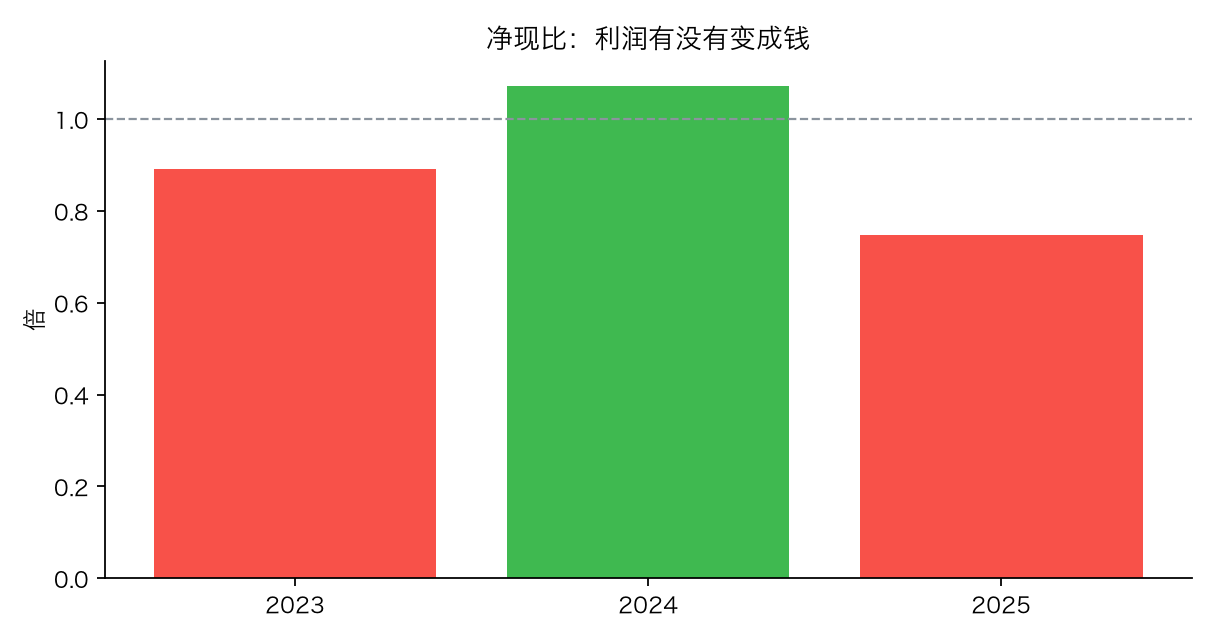
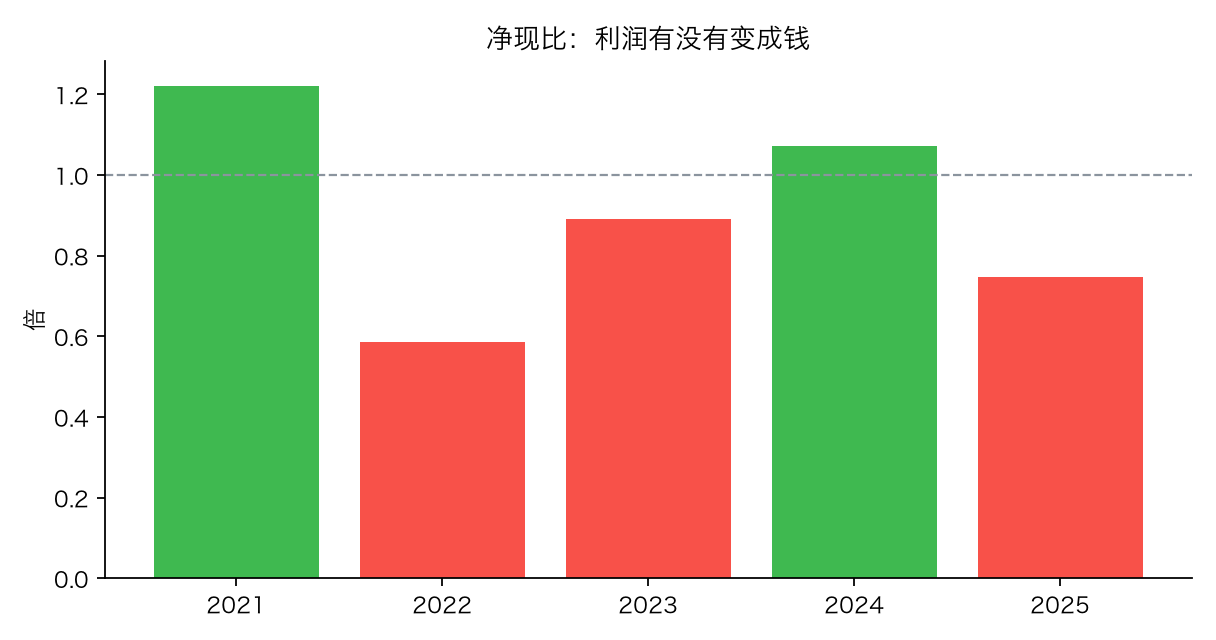
report: 600519.SH 贵州茅台 · 年报深度解读 · 2026-11-28

diff --git a/reports/600519.SH/2026-11-28/company-analysis.md b/reports/600519.SH/2026-11-28/company-analysis.md
@@ -29,19 +29,19 @@ finding_count: 2
 
 **下一年只看三个数：合同负债、存货增速、销售费用。** 第一个说渠道还愿不愿意先打款，第二个说公司还愿不愿意继续存酒，第三个说守价格要花多少钱。EPS 65.66 元（P6）这个数已经被注销式回购改过分母，股本 1,252,270,215 股（P6），别拿它直接当经营改善的证据。
 
-| 指标 | 2025 | 2024 | 2023 |
-| :--- | ---: | ---: | ---: |
-| 营业收入（亿元） | 1,688.38 | 1,708.99 | 1,476.94 |
-| 归母净利润（亿元） | 823.20 | 862.28 | 747.34 |
-| 毛利率 | 91.18% | 91.93% | —（不可得） |
-| 净利率 | 48.76% | 50.46% | 50.60% |
-| ROE | 33.65% | 36.99% | 34.65% |
-| ROIC | 33.57% | 36.87% | —（不可得） |
-| 经营活动现金流（亿元） | 615.22 | 924.64 | 665.93 |
-| 自由现金流（亿元） | 583.95 | 877.85 | —（不可得） |
-| 净现比 | 0.75 倍 | 1.07 倍 | 0.89 倍 |
-| 资产负债率 | 16.42% | 19.04% | —（不可得） |
-| 分红率 | 42.56% | —（不可得） | —（不可得） |
+| 指标 | 2025 | 2024 | 2023 | 2022 | 2021 |
+| :--- | ---: | ---: | ---: | ---: | ---: |
+| 营业收入（亿元） | 1,688.38 | 1,708.99 | 1,476.94 | 1,241.00 | 1,061.90 |
+| 归母净利润（亿元） | 823.20 | 862.28 | 747.34 | 627.17 | 524.36 |
+| 毛利率 | 91.18% | 91.93% | 91.96% | 91.87% | 91.54% |
+| 净利率 | 48.76% | 50.46% | 50.60% | 50.54% | 49.38% |
+| ROE | 33.65% | 36.99% | 34.65% | 31.76% | 27.67% |
+| ROIC | 33.57% | 36.87% | —（不可得） | —（不可得） | —（不可得） |
+| 经营活动现金流（亿元） | 615.22 | 924.64 | 665.93 | 366.99 | 640.29 |
+| 自由现金流（亿元） | 583.95 | 877.85 | 639.73 | 313.92 | 606.20 |
+| 净现比 | 0.75 倍 | 1.07 倍 | 0.89 倍 | 0.59 倍 | 1.22 倍 |
+| 资产负债率 | 16.42% | 19.04% | 17.98% | 19.47% | 22.80% |
+| 分红率 | 42.56% | —（不可得） | —（不可得） | —（不可得） | —（不可得） |
 
 红旗判定：清单共 32 项，命中 1 项，数据不足 17 项（数据不足不等于没问题）。
 
@@ -85,34 +85,34 @@ finding_count: 2
 
 ## 五年账
 
-**能拿到的完整三年是 2023 到 2025，五年表这一份年报没给到底。** 年报「近三年主要会计数据」只列三年（P6），所以这里的轨迹从 FY2023 起算；要看更长周期得另外调取历史年报。
+**五年走的是一个完整的起伏：先冲高，再回落。** 营业收入 1,061.90 亿元、1,241.00 亿元、1,476.94 亿元、1,708.99 亿元、1,688.38 亿元（FY2021 与 FY2022 出自 2022、2023 年报的比较列，P5）。FY2024 那个台阶是提价与渠道结构同时发力，FY2025 把多出来的一部分还了回去。
 
-**三年走的是一个完整的起伏：先冲高，再回落。** 营业收入 1,476.94 亿元、1,708.99 亿元、1,688.38 亿元（P6）。FY2024 那个台阶是提价与渠道结构同时发力，FY2025 把多出来的一部分还了回去。
+**拿这家公司当五年标尺要注意一处口径：2021 与 2022 的数有两套。** 财政部《企业会计准则解释第 16 号》从 2023 年起施行，公司对比较期做了追溯调整，所以 2022 年净利润在 2022 年报里是 627.16 亿元、在 2023 年报里是 627.17 亿元，2021 年净资产在两个年报里也差 0.28 亿元（P5）。这里的五年一律取调整后——混用调整前后，跨年比较就会出现一个不存在的台阶。
 
-**利润的轨迹比收入陡。** 归母净利润 747.34 亿元、862.28 亿元、823.20 亿元（P6）。从 FY2024 到 FY2025，收入退了一小步，归母退了一大步——收入之外还有一层利润率压缩，主要是销售费用与产品结构。
+**利润的轨迹比收入陡。** 归母净利润 524.36 亿元、627.17 亿元、747.34 亿元、862.28 亿元、823.20 亿元（P6）。五年涨了 57.0%，最后一年退了 4.5%——收入之外还有一层利润率压缩，主要是销售费用与产品结构。
 
-**现金流是最不稳定的那一行。** 经营活动现金流量净额 665.93 亿元、924.64 亿元、615.22 亿元（P6）。三年里最高与最低差了三成多，而同期净利润只波动一成多。差在财务公司：成员单位存款和同业存款的进出记在经营活动里，把这条线搅得比主业剧烈。
+**现金流是最不稳定的那一行。** 经营活动现金流量净额 640.29 亿元、366.99 亿元、665.93 亿元、924.64 亿元、615.22 亿元（P6）。五年里最高与最低差了一倍半，而同期净利润只波动一成多。差在财务公司：成员单位存款和同业存款的进出记在经营活动里，把这条线搅得比主业剧烈。
 
-**资产与净资产每年都在长，长得很稳。** 总资产 2,726.99 亿元、2,989.46 亿元、3,038.35 亿元，归母净资产 2,156.69 亿元、2,331.06 亿元、2,446.38 亿元（P6）。没有杠杆，也没有大额并购，增长几乎全部来自留存利润。
+**资产与净资产每年都在长，长得很稳。** 总资产 2,553.15 亿元、2,545.01 亿元、2,726.99 亿元、2,989.46 亿元、3,038.35 亿元，归母净资产 1,895.12 亿元、1,974.80 亿元、2,156.69 亿元、2,331.06 亿元、2,446.38 亿元（P6）。没有杠杆，也没有大额并购，增长几乎全部来自留存利润。
 
-**股本三年里只动过一次，是回购注销。** 1,256,197,800 股、1,256,197,800 股、1,252,270,215 股（P6）。FY2025 注销了回购的股份，分母变小，所以每股收益的跌幅小于净利润的跌幅——这是算术，不是经营变好。
+**股本五年里只动过一次，是回购注销。** 1,256,197,800 股、1,256,197,800 股、1,252,270,215 股（P6）。FY2025 注销了回购的股份，分母变小，所以每股收益的跌幅小于净利润的跌幅——这是算术，不是经营变好。
 
-**看一眼三年的利润率方向，就知道现在处在哪一段。** FY2023 到 FY2024 是收入与利润率同向上行，FY2024 到 FY2025 是收入下行的同时费用率上行。历史上这家公司每次遇到这段区间，都会用控量保价把吨价托住，代价是收入增速让位。
+**看一眼五年的利润率方向，就知道现在处在哪一段。** FY2023 到 FY2024 是收入与利润率同向上行，FY2024 到 FY2025 是收入下行的同时费用率上行。历史上这家公司每次遇到这段区间，都会用控量保价把吨价托住，代价是收入增速让位。
 
 **三年数据够判断趋势，不够判断周期。** 白酒的库存周期以五年计，基酒从投产到出厂也要五年左右。三年的时间窗能看清方向，看不出这一轮调整在历史里的位置——这是这份年报本身的信息边界，不是分析口径的问题。
 
-| 项目 | 2025 | 2024 | 2023 |
-| :--- | ---: | ---: | ---: |
-| 营业收入（亿元） | 1,688.38 | 1,708.99 | 1,476.94 |
-| 毛利（亿元） | 1,539.46 | 1,571.10 | —（不可得） |
-| 营业利润（亿元） | 1,148.09 | 1,196.89 | —（不可得） |
-| 归母净利润（亿元） | 823.20 | 862.28 | 747.34 |
-| 经营活动现金流（亿元） | 615.22 | 924.64 | 665.93 |
-| 自由现金流（亿元） | 583.95 | 877.85 | —（不可得） |
-| ROE | 33.65% | 36.99% | 34.65% |
-| 净利率 | 48.76% | 50.46% | 50.60% |
-| 资产负债率 | 16.42% | 19.04% | —（不可得） |
-| 流动比率 | 5.09 倍 | 4.45 倍 | —（不可得） |
+| 项目 | 2025 | 2024 | 2023 | 2022 | 2021 |
+| :--- | ---: | ---: | ---: | ---: | ---: |
+| 营业收入（亿元） | 1,688.38 | 1,708.99 | 1,476.94 | 1,241.00 | 1,061.90 |
+| 毛利（亿元） | 1,539.46 | 1,571.10 | 1,358.26 | 1,140.06 | 972.07 |
+| 营业利润（亿元） | 1,148.09 | 1,196.89 | 1,037.09 | 878.80 | 747.51 |
+| 归母净利润（亿元） | 823.20 | 862.28 | 747.34 | 627.17 | 524.36 |
+| 经营活动现金流（亿元） | 615.22 | 924.64 | 665.93 | 366.99 | 640.29 |
+| 自由现金流（亿元） | 583.95 | 877.85 | 639.73 | 313.92 | 606.20 |
+| ROE | 33.65% | 36.99% | 34.65% | 31.76% | 27.67% |
+| 净利率 | 48.76% | 50.46% | 50.60% | 50.54% | 49.38% |
+| 资产负债率 | 16.42% | 19.04% | 17.98% | 19.47% | 22.80% |
+| 流动比率 | 5.09 倍 | 4.45 倍 | 4.62 倍 | 4.41 倍 | 3.81 倍 |
 
 ![三率趋势：盈利能力在变好还是变差](assets/margin-trend.png)
 
@@ -120,12 +120,12 @@ finding_count: 2
 
 ### 杜邦分解
 
-| 项目 | 2025 | 2024 | 2023 |
-| :--- | ---: | ---: | ---: |
-| ROE | 33.65% | 36.99% | 34.65% |
-| 净利率 | 48.76% | 50.46% | 50.60% |
-| 总资产周转率（次） | 0.56 倍 | 0.57 倍 | 0.54 倍 |
-| 权益乘数（倍） | 1.24 倍 | 1.28 倍 | 1.26 倍 |
+| 项目 | 2025 | 2024 | 2023 | 2022 | 2021 |
+| :--- | ---: | ---: | ---: | ---: | ---: |
+| ROE | 33.65% | 36.99% | 34.65% | 31.76% | 27.67% |
+| 净利率 | 48.76% | 50.46% | 50.60% | 50.54% | 49.38% |
+| 总资产周转率（次） | 0.56 倍 | 0.57 倍 | 0.54 倍 | 0.49 倍 | 0.42 倍 |
+| 权益乘数（倍） | 1.24 倍 | 1.28 倍 | 1.26 倍 | 1.29 倍 | 1.35 倍 |
 
 ## 利润表：从毛利到归母
 
@@ -147,13 +147,13 @@ finding_count: 2
 
 ### 三项费用与销售投入
 
-| 项目 | 2025 | 2024 | 2023 |
-| :--- | ---: | ---: | ---: |
-| 销售费用（亿元） | 72.53 | 56.39 | —（不可得） |
-| 管理费用（亿元） | 83.20 | 93.16 | —（不可得） |
-| 研发费用（亿元） | 1.90 | 2.18 | —（不可得） |
-| 财务费用（亿元） | -8.15 | -14.70 | —（不可得） |
-| 其中：广告营销费（亿元） | 18.29 | 13.35 | —（不可得） |
+| 项目 | 2025 | 2024 | 2023 | 2022 | 2021 |
+| :--- | ---: | ---: | ---: | ---: | ---: |
+| 销售费用（亿元） | 72.53 | 56.39 | —（不可得） | —（不可得） | —（不可得） |
+| 管理费用（亿元） | 83.20 | 93.16 | —（不可得） | —（不可得） | —（不可得） |
+| 研发费用（亿元） | 1.90 | 2.18 | —（不可得） | —（不可得） | —（不可得） |
+| 财务费用（亿元） | -8.15 | -14.70 | —（不可得） | —（不可得） | —（不可得） |
+| 其中：广告营销费（亿元） | 18.29 | 13.35 | —（不可得） | —（不可得） | —（不可得） |
 
 ![三项费用：钱花在渠道、管理还是研发](assets/expense-mix.png)
 
@@ -161,11 +161,11 @@ finding_count: 2
 
 ### 研发与人员
 
-| 项目 | 2025 | 2024 | 2023 |
-| :--- | ---: | ---: | ---: |
-| 研发费用（亿元） | 1.90 | 2.18 | —（不可得） |
-| 在职员工（人） | 34,992 | —（不可得） | —（不可得） |
-| 关联方采购（亿元） | 13.93 | —（不可得） | —（不可得） |
+| 项目 | 2025 | 2024 | 2023 | 2022 | 2021 |
+| :--- | ---: | ---: | ---: | ---: | ---: |
+| 研发费用（亿元） | 1.90 | 2.18 | —（不可得） | —（不可得） | —（不可得） |
+| 在职员工（人） | 34,992 | —（不可得） | —（不可得） | —（不可得） | —（不可得） |
+| 关联方采购（亿元） | 13.93 | —（不可得） | —（不可得） | —（不可得） | —（不可得） |
 
 广告营销费见销售费用附注（P108）；关联采购额见「主要供应商」段落（P11）。
 
@@ -191,38 +191,38 @@ finding_count: 2
 
 ### 资产端
 
-| 项目 | 2025 | 2024 | 2023 |
-| :--- | ---: | ---: | ---: |
-| 货币资金（亿元） | 516.91 | 592.96 | —（不可得） |
-| 应收账款（亿元） | 0.03 | 0.19 | —（不可得） |
-| 存货（亿元） | 614.27 | 543.43 | —（不可得） |
-| 流动资产合计（亿元） | 2,525.19 | 2,517.27 | —（不可得） |
-| 固定资产（亿元） | 224.88 | 218.71 | —（不可得） |
-| 无形资产（亿元） | 86.86 | 88.50 | —（不可得） |
-| 资产总计（亿元） | 3,038.35 | 2,989.45 | 2,727.00 |
+| 项目 | 2025 | 2024 | 2023 | 2022 | 2021 |
+| :--- | ---: | ---: | ---: | ---: | ---: |
+| 货币资金（亿元） | 516.91 | 592.96 | 690.70 | 582.74 | 518.10 |
+| 应收账款（亿元） | 0.03 | 0.19 | 0.60 | 0.21 | —（不可得） |
+| 存货（亿元） | 614.27 | 543.43 | 464.35 | 388.24 | —（不可得） |
+| 流动资产合计（亿元） | 2,525.19 | 2,517.27 | 2,251.73 | 2,166.11 | 2,207.66 |
+| 固定资产（亿元） | 224.88 | 218.71 | 199.09 | 197.43 | 174.72 |
+| 无形资产（亿元） | 86.86 | 88.50 | 85.72 | 70.83 | 62.08 |
+| 资产总计（亿元） | 3,038.35 | 2,989.45 | 2,727.00 | 2,545.01 | 2,553.15 |
 
 ### 负债与权益
 
-| 项目 | 2025 | 2024 | 2023 |
-| :--- | ---: | ---: | ---: |
-| 应付账款（亿元） | 40.07 | 35.15 | —（不可得） |
-| 合同负债（亿元） | 80.07 | 95.92 | —（不可得） |
-| 流动负债合计（亿元） | 496.10 | 565.16 | —（不可得） |
-| 归母权益（亿元） | 2,446.38 | 2,331.06 | 2,156.69 |
-| 少数股东权益（亿元） | 93.21 | 89.05 | —（不可得） |
-| 所有者权益合计（亿元） | 2,539.59 | 2,420.11 | —（不可得） |
+| 项目 | 2025 | 2024 | 2023 | 2022 | 2021 |
+| :--- | ---: | ---: | ---: | ---: | ---: |
+| 应付账款（亿元） | 40.07 | 35.15 | 30.93 | 24.08 | 20.10 |
+| 合同负债（亿元） | 80.07 | 95.92 | —（不可得） | —（不可得） | —（不可得） |
+| 流动负债合计（亿元） | 496.10 | 565.16 | 486.98 | 490.66 | 579.14 |
+| 归母权益（亿元） | 2,446.38 | 2,331.06 | 2,156.69 | 1,974.80 | 1,895.12 |
+| 少数股东权益（亿元） | 93.21 | 89.05 | 79.88 | 74.58 | —（不可得） |
+| 所有者权益合计（亿元） | 2,539.59 | 2,420.11 | —（不可得） | —（不可得） | —（不可得） |
 
 ### 负债与现金口径
 
-| 项目 | 2025 | 2024 | 2023 |
-| :--- | ---: | ---: | ---: |
-| 货币资金（亿元） | 516.91 | 592.96 | —（不可得） |
-| 类现金（含存单与定期存款）（亿元） | 516.91 | 592.96 | —（不可得） |
-| 有息负债（亿元） | 0.00 | 0.00 | —（不可得） |
-| 其中：一年内到期（亿元） | 0.00 | 0.00 | —（不可得） |
-| 净有息负债（亿元） | -516.91 | -592.96 | —（不可得） |
-| 利息支出（亿元） | 0.29 | 0.14 | —（不可得） |
-| 负债总额（亿元） | 498.76 | 569.33 | —（不可得） |
+| 项目 | 2025 | 2024 | 2023 | 2022 | 2021 |
+| :--- | ---: | ---: | ---: | ---: | ---: |
+| 货币资金（亿元） | 516.91 | 592.96 | 690.70 | 582.74 | 518.10 |
+| 类现金（含存单与定期存款）（亿元） | 516.91 | 592.96 | 690.70 | 582.74 | 518.10 |
+| 有息负债（亿元） | 0.00 | 0.00 | 0.00 | 0.00 | 0.00 |
+| 其中：一年内到期（亿元） | 0.00 | 0.00 | 0.00 | 0.00 | 0.00 |
+| 净有息负债（亿元） | -516.91 | -592.96 | -690.70 | -582.74 | -518.10 |
+| 利息支出（亿元） | 0.29 | 0.14 | 0.13 | 0.12 | 0.14 |
+| 负债总额（亿元） | 498.76 | 569.33 | 490.43 | 495.63 | 582.11 |
 
 ### 偿债体检
 
@@ -258,14 +258,14 @@ finding_count: 2
 
 **下一年看现金流，只看两个问题。** 一是存款科目还会不会继续反向搅动经营现金流，二是分红相对自由现金流的缺口会不会连续第二年出现。前者决定报表读数，后者决定分红政策要不要改。
 
-| 项目 | 2025 | 2024 | 2023 |
-| :--- | ---: | ---: | ---: |
-| 经营活动现金流（亿元） | 615.22 | 924.64 | 665.93 |
-| 投资活动现金流（亿元） | -316.42 | -17.85 | —（不可得） |
-| 筹资活动现金流（亿元） | -734.27 | -710.68 | —（不可得） |
-| 资本性支出（亿元） | 31.28 | 46.79 | —（不可得） |
-| 自由现金流（亿元） | 583.95 | 877.85 | —（不可得） |
-| 净现比 | 0.75 倍 | 1.07 倍 | 0.89 倍 |
+| 项目 | 2025 | 2024 | 2023 | 2022 | 2021 |
+| :--- | ---: | ---: | ---: | ---: | ---: |
+| 经营活动现金流（亿元） | 615.22 | 924.64 | 665.93 | 366.99 | 640.29 |
+| 投资活动现金流（亿元） | -316.42 | -17.85 | —（不可得） | —（不可得） | —（不可得） |
+| 筹资活动现金流（亿元） | -734.27 | -710.68 | —（不可得） | —（不可得） | —（不可得） |
+| 资本性支出（亿元） | 31.28 | 46.79 | 26.20 | 53.07 | 34.09 |
+| 自由现金流（亿元） | 583.95 | 877.85 | 639.73 | 313.92 | 606.20 |
+| 净现比 | 0.75 倍 | 1.07 倍 | 0.89 倍 | 0.59 倍 | 1.22 倍 |
 
 ![净现比：利润有没有变成钱](assets/cash-quality.png)
 
@@ -401,14 +401,14 @@ finding_count: 2
 
 **还有一处需要读者自己判断：报告期后的人事变动。** 年报披露了高级管理人员被留置、免职的公告索引（P39），正文没有交代事由与财务影响，也没有说明对经营的影响。这类事项在年报里的处理方式通常是「只给索引」，读者只能自己去查公告。
 
-| 项目 | 2025 | 2024 | 2023 |
-| :--- | ---: | ---: | ---: |
-| 归母净利润（亿元） | 823.20 | 862.28 | 747.34 |
-| 少数股东损益（亿元） | 29.90 | 31.07 | —（不可得） |
-| 归母权益（亿元） | 2,446.38 | 2,331.06 | 2,156.69 |
-| 少数股东权益（亿元） | 93.21 | 89.05 | —（不可得） |
-| 每股派息（元/股） | 27.993 | 27.624 | —（不可得） |
-| 分配股利支付的现金（亿元） | 672.42 | 709.51 | —（不可得） |
+| 项目 | 2025 | 2024 | 2023 | 2022 | 2021 |
+| :--- | ---: | ---: | ---: | ---: | ---: |
+| 归母净利润（亿元） | 823.20 | 862.28 | 747.34 | 627.17 | 524.36 |
+| 少数股东损益（亿元） | 29.90 | 31.07 | —（不可得） | —（不可得） | —（不可得） |
+| 归母权益（亿元） | 2,446.38 | 2,331.06 | 2,156.69 | 1,974.80 | 1,895.12 |
+| 少数股东权益（亿元） | 93.21 | 89.05 | 79.88 | 74.58 | —（不可得） |
+| 每股派息（元/股） | 27.993 | 27.624 | —（不可得） | —（不可得） | —（不可得） |
+| 分配股利支付的现金（亿元） | 672.42 | 709.51 | —（不可得） | —（不可得） | —（不可得） |
 
 ## 红旗与跟踪清单
 
